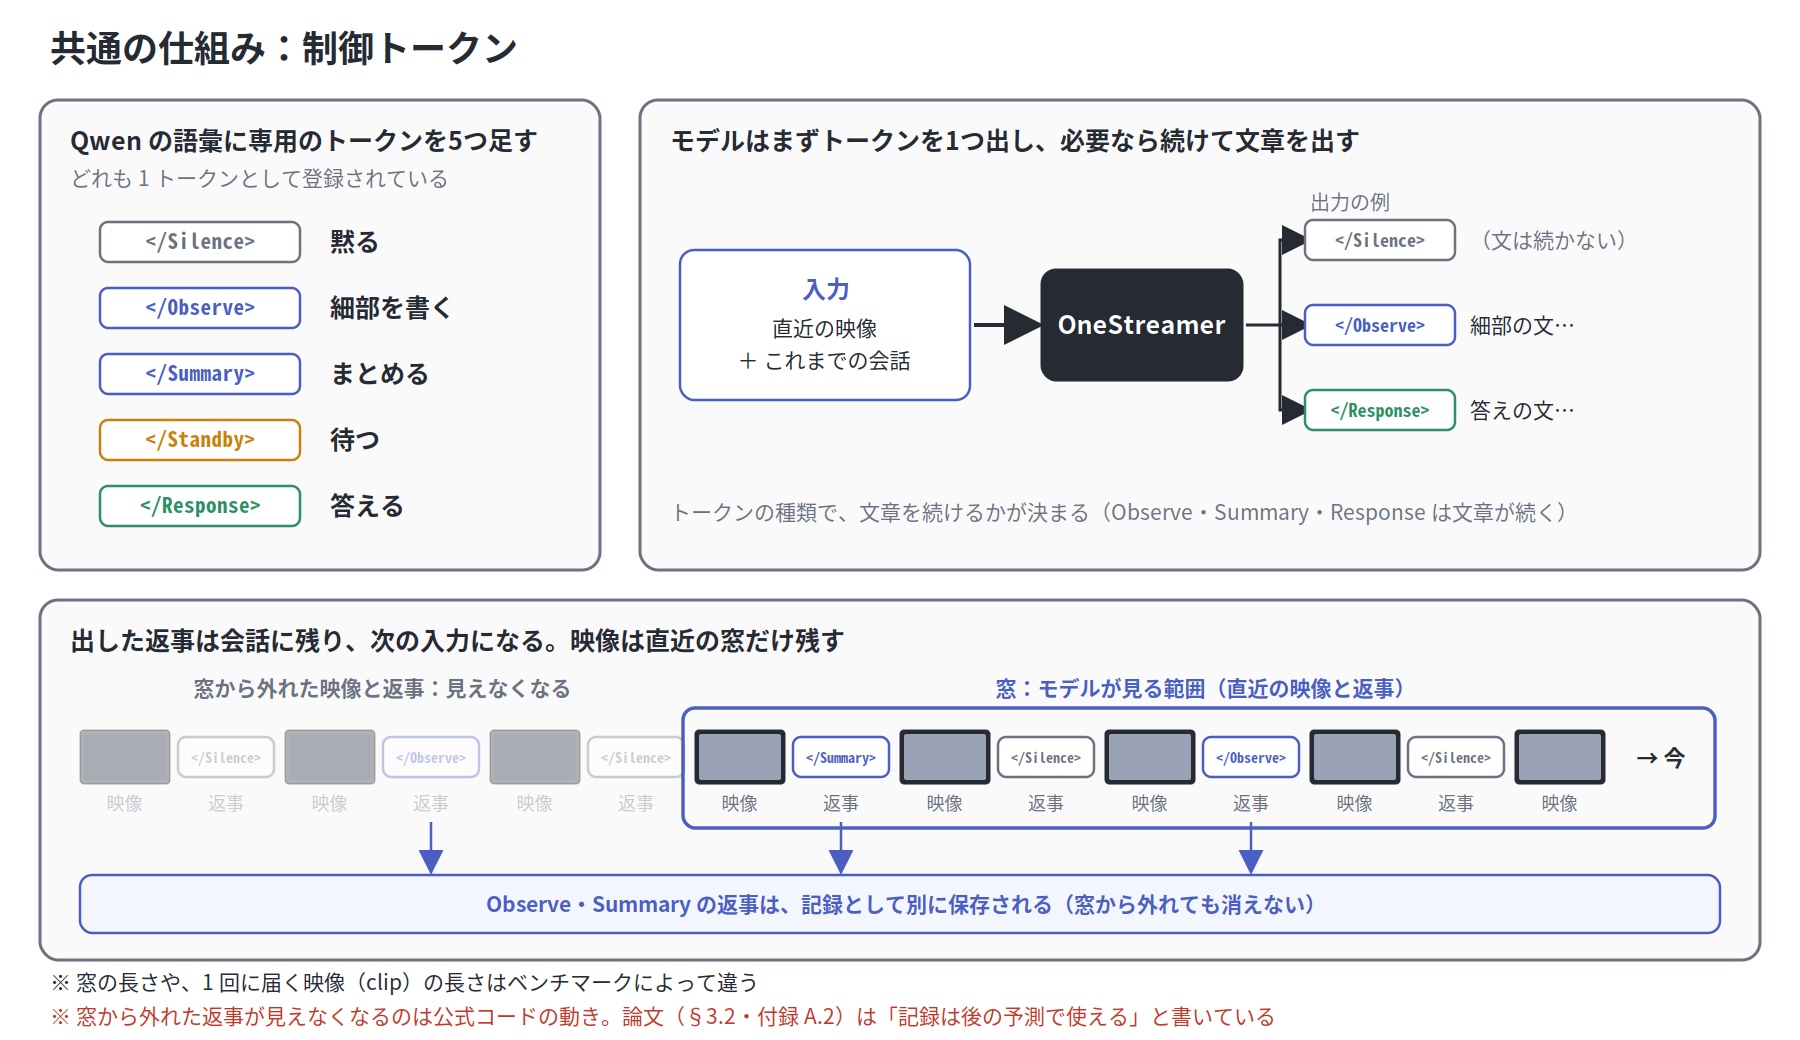
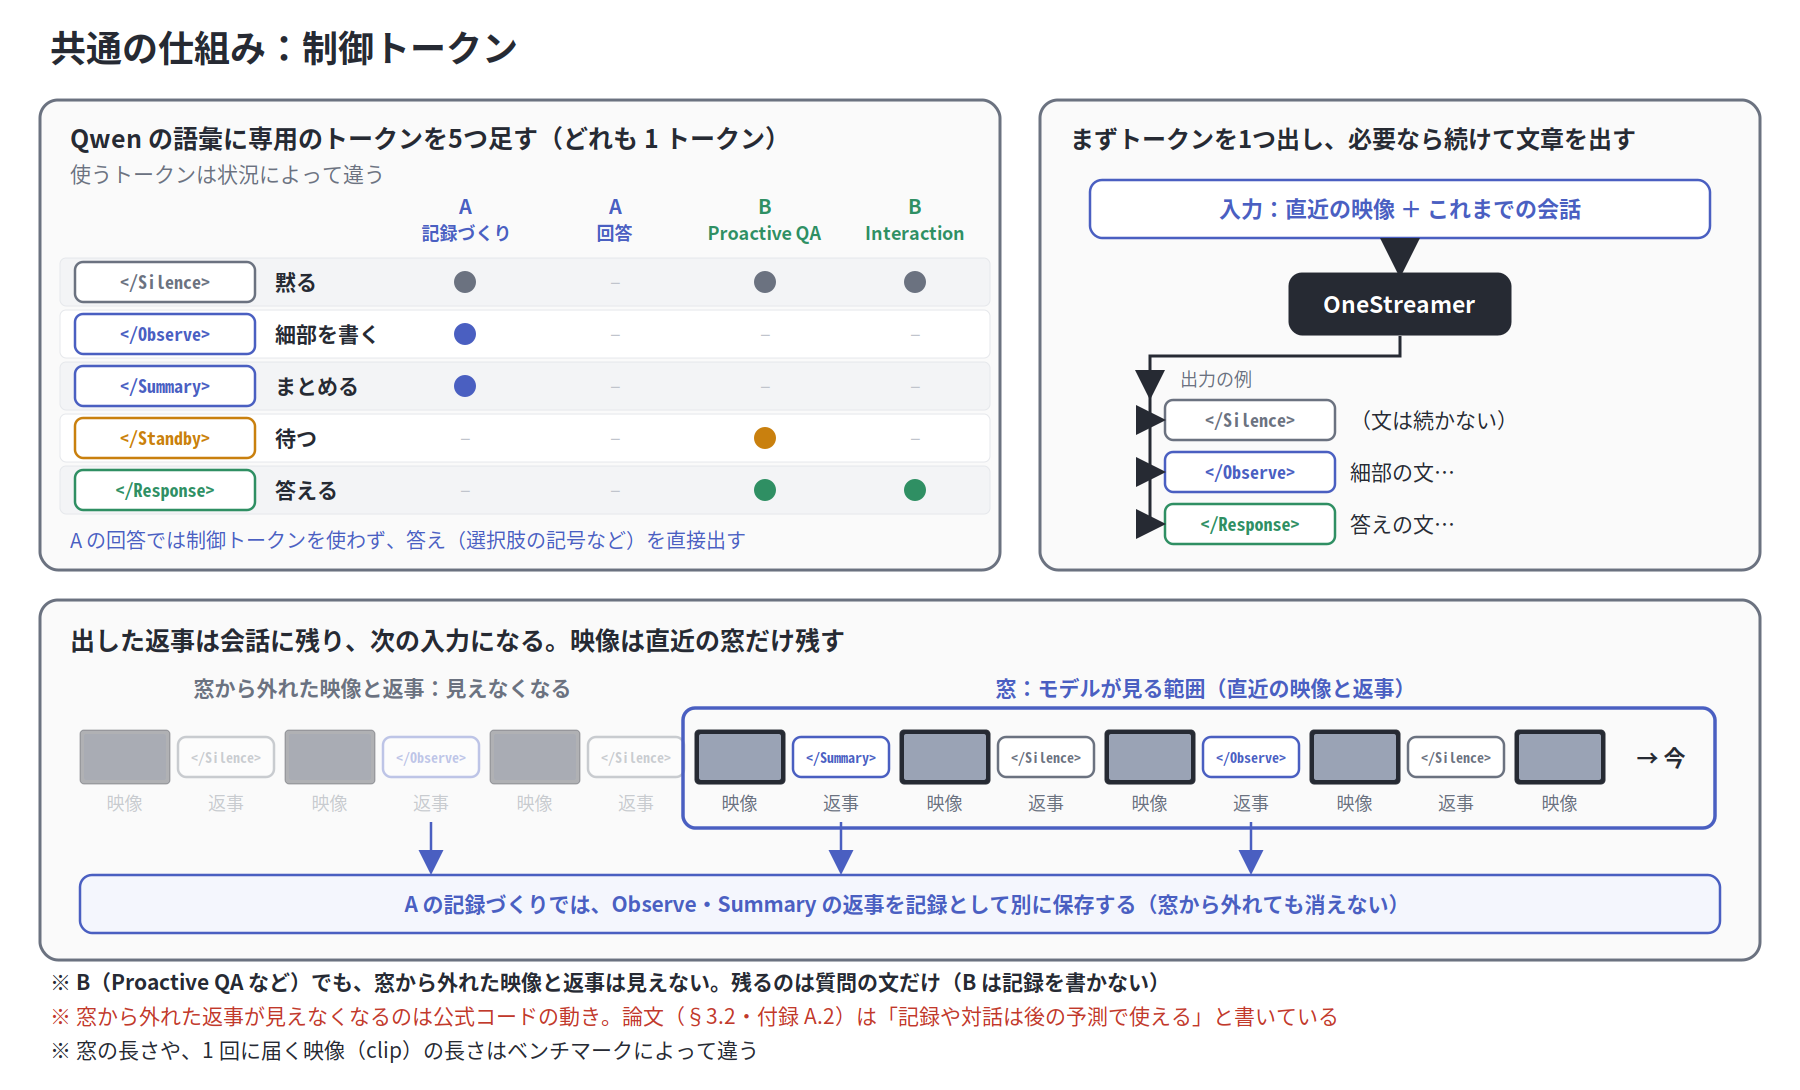
docs: OneStreamer の制御トークンの図に状況ごとの使い分けを追加し、B の窓の扱いをコードで確かめた結果を読書ログに追記

Changed region(s): [[0.0, 0.0308, 0.9956, 0.9846]]

diff --git a/.research/lab/projects/agentic-streaming-videoqa/papers/2026-11-05-onestreamer-reading-log.md b/.research/lab/projects/agentic-streaming-videoqa/papers/2026-11-05-onestreamer-reading-log.md
@@ -318,3 +318,16 @@ tags: [onestreamer, paper-reading, reading-log]
   - B: 1 つの会話で、映像が届くたびに呼ぶ。システムプロンプトはベンチごとに違う。ProactiveVideoQA・ViSpeak は `shared/inference_fast.py` の `SYSTEM`、OmniMMI PA は `omnimmi/pa_prompt.txt`（Silence と Response だけ）、OVO-Timing は `vlmeval/dataset/ovo_timing.py` の `_streaming_system_prompt`
   - OVBench・ODV-Bench・OmniMMI の SG・AP・MD・SI: 質問の時点の映像をまとめて 1 回呼ぶ
 - [AI] なので全体像の「最初に渡す指示で決まる」は、正確には「**評価のコードがベンチごとに、指示文（システムプロンプト）と処理の流れを選ぶ**。モデルが自分で判断するわけではない」
+
+### 7.14 B（Proactive QA など）でも、窓より古い部分は見えないか（2026-11-05）
+
+**林の問い**: 制御トークンの図に、状況によって使うトークンが違うことも入れたい。また、Proactive QA のときも窓の長さより前の部分はモデルから見えないのか。
+
+**公式コードで確かめたこと**: 見えない。B のどのベンチも、窓を超えた古い映像と、そのときの返事を会話から消す。質問の文だけは残す
+- ProactiveVideoQA・ViSpeak・OmniMMI PA: `Eval/Proactive_Eval/shared/inference_fast.py` の `StreamingSession._append_turn`（333〜345 行目）。`max_rounds`（ProactiveVideoQA は 64 回 = 32 秒、ほかは 32 回 = 32 秒、`run_script/recipes.py`）を超えたら古いやりとりを消す。`global_question=True`（既定）なので、残った先頭の発話に質問の文を入れ直す
+- OVO-Timing: `Eval/VLMEvalKit/vlmeval/vlm/qwen3_ovotiming/inference_fast.py` の `_trim_sliding_window`（196〜220 行目）。64 枚を超えたら、最も古い映像と返事の組を消す。質問の発話は映像より前に置かれていて消えない
+- B は記録（Observe・Summary）を書かないので、窓より古いことは質問の文以外なにも残らない
+- [著者] 一方、論文の付録 A.2 は「proactive QA でも同じ履歴（記録と対話）をユーザーの指示と一緒に渡す」と書く。ここも論文とコードが違う
+- [AI] 数え上げ（OVO-Timing の REC など）では、窓の外に出た自分の前の答え（「2 回」など）も見えなくなるので、長い動画で数を正しく続けられるかは窓の長さに左右されうる。ただし OVO-Timing の公式の採点は応答の時刻だけを見て中身は見ない（再現ログ §6）
+
+**図への反映**: `materials/figures/2026-11-05-onestreamer-method/02-control-tokens` に、トークンごとに「A 記録づくり／A 回答／B Proactive QA／B Interaction」のどこで使うかの表（表5 と公式コードの指示文から）と、B でも窓の外は見えないことの注記を足した
